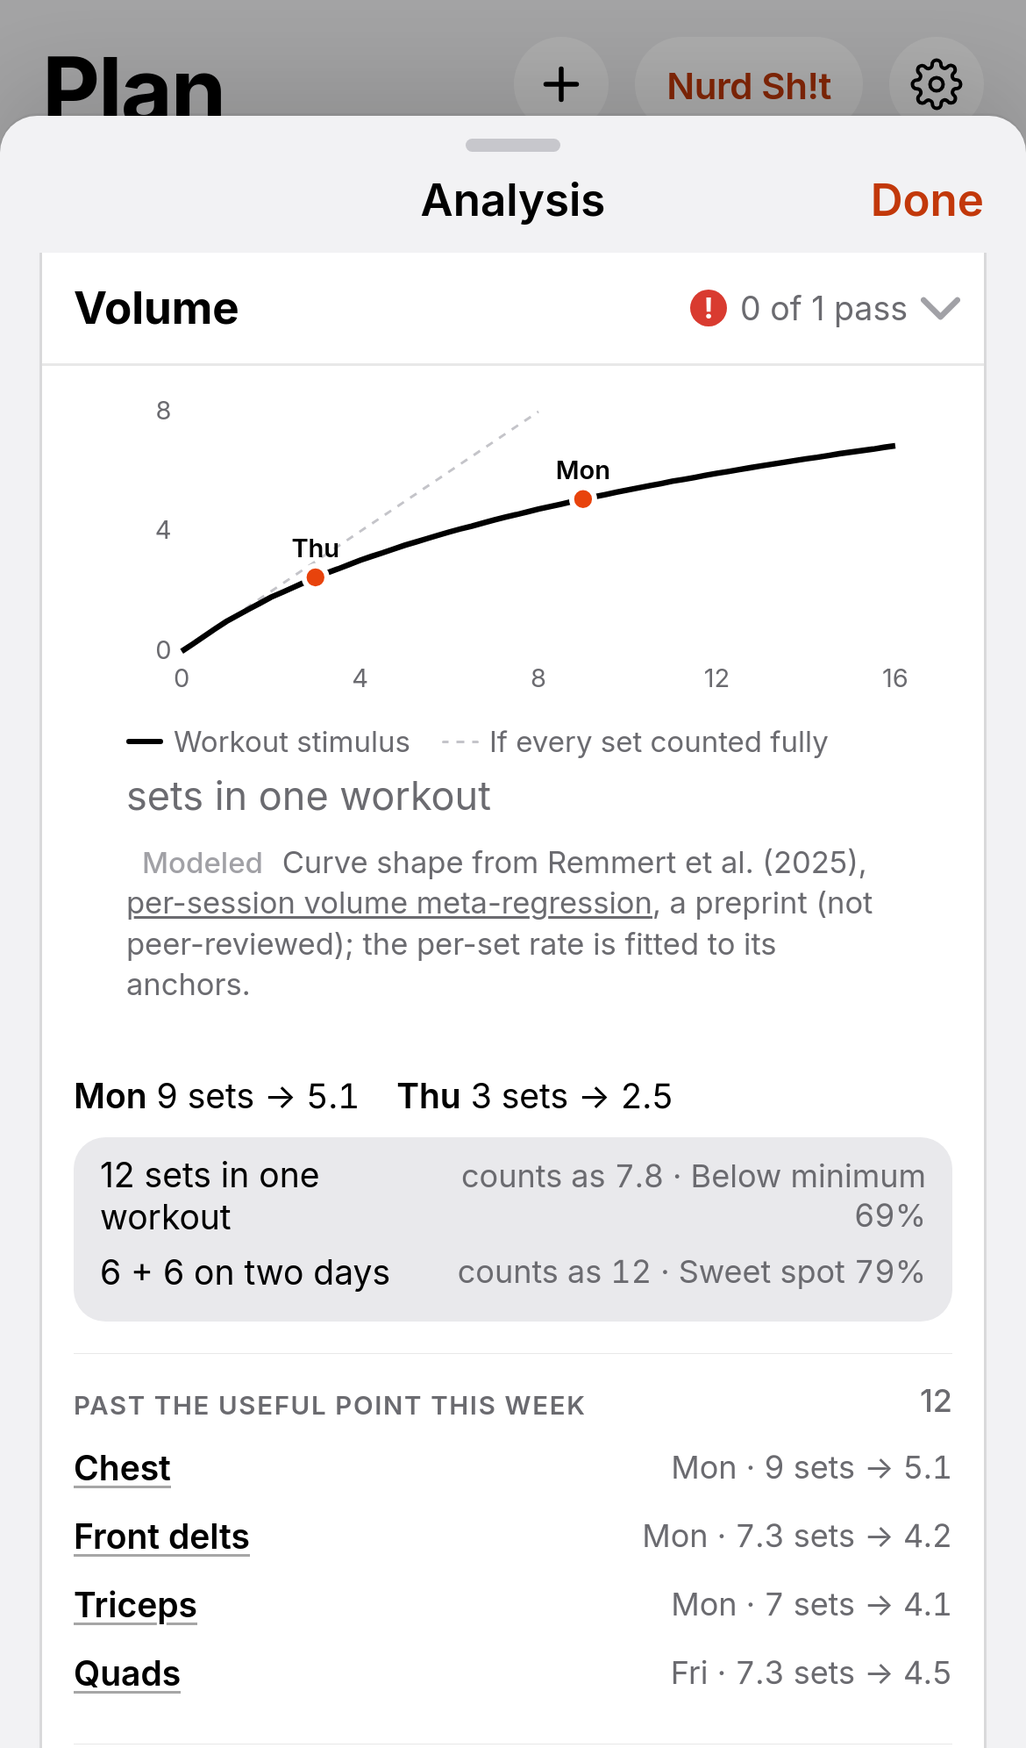
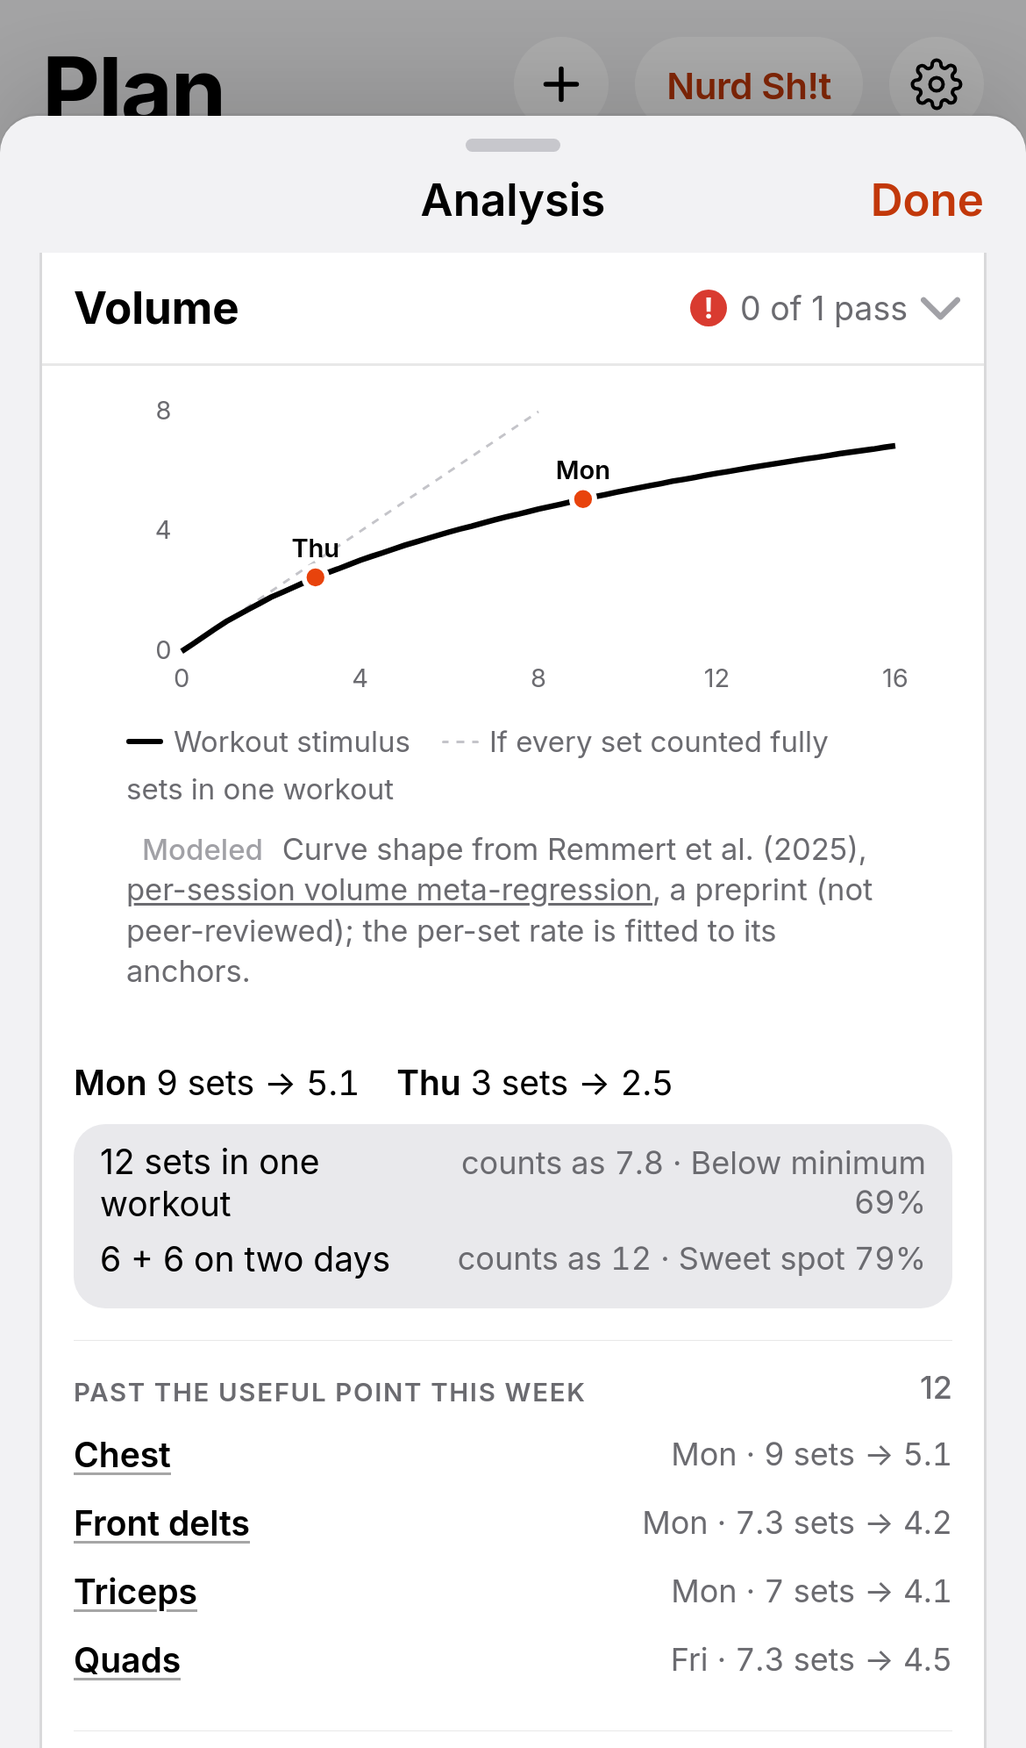
Storyboard vol8c: capped weekly value (min of x_equiv and raw) for %, zones, colours, warnings and the shown number; My average on per-set fatigue; overlap early format; splits held

diff --git a/storyboard/logic/progcheck.js b/storyboard/logic/progcheck.js
@@ -39,6 +39,8 @@ const perSet=dt=>!!(dt.VM&&dt.VM.curve.session_discount&&dt.VM.curve.session_dis
 const psC=(dt,m)=>(((dt.VM.session||{}).per_muscle||{})[m]||{}).c;
 function gPS(c,s){if(!(s>0))return 0;const n=Math.floor(s+1e-12);let t=0;for(let i=1;i<=n;i++)t+=1/(1+(i-1)/c);return t+Math.max(0,s-n)/(1+n/c)}
 function xEquiv(dt,m,xd){const c=psC(dt,m);if(!c)return xd;if(!(xd>0))return 0;let lo=0,hi=400;for(let k=0;k<90;k++){const md=(lo+hi)/2;if(2*gPS(c,md/2)<xd)lo=md;else hi=md}return (lo+hi)/2}
+// vol8c: weekly value = min(x_equiv, raw weekly effective sets), rounded to 0.01 before any zone/colour/warning comparison (check_program.py capped_week)
+const capW=(dt,m,xd,raw)=>Math.min(xEquiv(dt,m,xd),raw);   // % uses this exact value; zones/colours/warnings compare it rounded to 0.01
 function sessZone8(dt,m,s){const Z=((dt.VM.workout||{}).stimulus||{}).per_muscle_zones||{},z=Z[m];if(!z)return null;return s<z.dose_floor?'below_dose':s<=z.useful_to+1e-9?'useful':s<=z.low_return_from+1e-9?'diminishing':'low_return'}
 // per-set fatigue (load points) and vol8 recovery hours (recovery.params type_base / axial_by_exercise / effort; hours_formula)
 const effortOf=(dt,rir)=>{const E=dt.VM.recovery.params.effort;return E[String(Math.max(0,Math.min(4,Math.round(rir))))]};
@@ -60,7 +62,7 @@ function flags8(dt,days,level){const RU={};dt.rules.rules.forEach(r=>RU[r.id]=r)
     if(RU.recovery_gap_long&&dt.rules.frequency_muscles.includes(m)){let best=null;for(let k=0;k<M.length;k++){const a=M[k],b=M[(k+1)%M.length],g=((b.i-a.i+7)%7||7)*24;if(!best||g>best[2])best=[a.d.day,b.d.day,g]}
       if(best[2]>RU.recovery_gap_long.max_gap_h)out.push(['info','recovery_gap_long',m,best[0],best[1],best[2],best[2]-RU.recovery_gap_long.max_gap_h])}
     if(RU.recovery_overlap){const R=RU.recovery_overlap;let k=0;const streaks=new Set();while(k<M.length){let j=k;while(j+1<M.length&&M[j+1].i===M[j].i+1)j++;if(j-k+1>=R.streak_days){out.push(['info','recovery_overlap',m,'streak',M[k].d.day,M[j].d.day,j-k+1]);for(let q=k;q<=j;q++)streaks.add(q)}k=j+1}
-      for(let q=0;q+1<M.length;q++){if(streaks.has(q)&&streaks.has(q+1))continue;const g=(M[q+1].i-M[q].i)*24,h=recHours(dt,M[q].d.tiles,level)[m]||0;if(g<R.min_gap_h||g<R.early_frac_of_lower*0.8*h)out.push(['info','recovery_overlap',m,'early',M[q].d.day,M[q+1].d.day,g,h])}}}
+      for(let q=0;q+1<M.length;q++){if(streaks.has(q)&&streaks.has(q+1))continue;const g=(M[q+1].i-M[q].i)*24,h=recHours(dt,M[q].d.tiles,level)[m]||0;const thr=R.early_frac_of_lower*0.8*h;if(g<R.min_gap_h||g<thr-1e-9)out.push(['info','recovery_overlap',m,'early',M[q].d.day,M[q+1].d.day,g,pyR(thr,1),pyR(thr-g,1)]) /* vol8c: [gap h, early threshold h, short by h] */}}}
   return out}
 function sessCredit(dt,m,s){if(perSet(dt)){const c=psC(dt,m);if(c)return gPS(c,s)}const SD=(dt.VM&&dt.VM.curve.session_discount)||dt.targets.curve.session_discount;
   if(SD.active==='smooth'&&SD.smooth){const H=((dt.targets.session||{}).muscles||{})[m];if(H&&H.heavy){const a=SD.smooth.a_frac_of_heavy*H.heavy,b=SD.smooth.b_frac_of_heavy*H.heavy;return s<=a?s:a+b*Math.log(1+(s-a)/b)}}
@@ -81,7 +83,7 @@ function patternFlags(dt,days,level){const {PJ}=ctx(dt);if(!days.some(d=>d.tiles
   for(const [s,mn] of Object.entries(PJ.weekly_min_by_level[level])){if(mn<=0||c[s]>=mn)continue;out.push([c[s]===0&&PJ.required.includes(s)?'warn':'info','pattern_gap',s,c[s],mn])}return out}
 function col(dt,m,x,level){const {T,LF}=ctx(dt),a=pyR(T[m].min*LF[level]*2)/2,b=T[m].max;if(dt.VM&&!exactWarn(dt))x=r1(x);if(a<=x&&x<=b)return 'G';if((a-2<=x&&x<a)||(b<x&&x<=b*1.25))return 'A';return 'R'}
 // days: [{day:'mon', tiles:[{id,sets}]}] (training days only, any order). Returns [flags, week]
-function check(dt,days,level){const {R,RU,T,S,HEAVY}=ctx(dt),PAT=dt.PAT,f=[],week={},freq={};for(const m in T){week[m]=0;freq[m]=0}
+function check(dt,days,level){const {R,RU,T,S,HEAVY}=ctx(dt),PAT=dt.PAT,f=[],week={},freq={},rawW={};for(const m in T){week[m]=0;freq[m]=0}
   let push=0,pull=0,spw=0;const byday={};days.forEach(d=>byday[d.day]=d);const HS=new Set(R.heavy_squats),HH=new Set(R.heavy_hinges);
   for(const d of days){const n=d.tiles.length,tot=total(d);
     if(n>RU.many_small_entries.min_tiles&&tot/n<RU.many_small_entries.max_avg_sets)f.push(['info','many_small_entries',d.day,n,pyR(tot/n,2)]);
@@ -92,7 +94,7 @@ function check(dt,days,level){const {R,RU,T,S,HEAVY}=ctx(dt),PAT=dt.PAT,f=[],wee
       if(R.push_patterns.includes(p))push+=t.sets;if(R.pull_patterns.includes(p))pull+=t.sets}
     for(const [p,c] of pc){if(c<2)continue;const pv=eff(dt,d.tiles.filter(t=>(PAT[t.id]??null)===p));const over=Object.keys(pv).filter(m=>pv[m]>RU.redundant_pattern.threshold);
       if(over.length)f.push(['warn','redundant_pattern',d.day,p,c,over[0],pyR(pv[over[0]],1)])}
-    const v=eff(dt,d.tiles);for(const m in v){const x=v[m];week[m]+=dt.VM?sessCredit(dt,m,x):x;   // qc3009: weekly totals use the per-session credit (JS diverges from Coach's Python here, accepted)
+    const v=eff(dt,d.tiles);for(const m in v){const x=v[m];week[m]+=dt.VM?sessCredit(dt,m,x):x;rawW[m]=(rawW[m]||0)+x;   // qc3009: weekly totals use the per-session credit (JS diverges from Coach's Python here, accepted)
       if(x>=2)freq[m]+=1;if(x>10)f.push(['warn','junk_volume_session',d.day,m,pyR(x,1)])}
     const ids=new Set(d.tiles.map(t=>t.id));if(level==='beginner'&&[...ids].some(i=>HS.has(i))&&[...ids].some(i=>HH.has(i)))f.push([RU.beginner_squat_and_deadlift.severity||'warn','beginner_squat_and_deadlift',d.day])} // r2fix: severity from rules[]
   for(let i=0;i<6;i++){const dd=ORDER[i],a=byday[dd],b=byday[ORDER[i+1]];if(!(a&&b))continue;
@@ -104,7 +106,7 @@ function check(dt,days,level){const {R,RU,T,S,HEAVY}=ctx(dt),PAT=dt.PAT,f=[],wee
   const all=new Set(days.flatMap(d=>d.tiles.map(t=>t.id)));
   for(const [m,ids] of Object.entries(R.stretch_biased))if(!ids.some(i=>all.has(i)))f.push([(RU.missing_stretch.check_muscles||[]).includes(m)?'warn':'info','missing_stretch',m]); // r2fix: stretch_check muscles warn
   for(const m of R.frequency_muscles)if(freq[m]<2&&days.length>=2)f.push(['info','low_frequency',m,freq[m]]);
-  if(perSet(dt)){for(const m in week)week[m]=xEquiv(dt,m,week[m]);f.push(...flags8(dt,days,level))}   // vol8b: weekly totals = x_equiv; CoS: zones/colours/warnings on this shown value
+  if(perSet(dt)){for(const m in week)week[m]=Math.round(capW(dt,m,week[m],rawW[m]||0)*100)/100;f.push(...flags8(dt,days,level))}   // vol8b: weekly totals = x_equiv; CoS: zones/colours/warnings on this shown value
   for(const m in week)if(col(dt,m,week[m],level)==='R')f.push(['warn','weekly_volume',m,pyR(week[m],1)]);
   f.push(...patternFlags(dt,days,level));return [f,week]}
 // ---------------- fixes (check_program.py v18) ----------------
@@ -240,7 +242,7 @@ function message(dt,f,days,level){const {R,RU,PJ}=ctx(dt),DN=R.day_names,id=f[1]
   const dys=h=>{const v=h/24;return `${+v.toFixed(1)} day${v===1?'':'s'}`};
   if(id==='session_dose'){P.limit=+(((dt.VM.session||{}).per_muscle||{})[f[3]]||{}).low_return_from.toFixed(1);P.sets=+(+P.sets).toFixed(1);return fmtPy(f[4]==='heavy'?r.message_heavy:r.message_light,P)}
   if(id==='recovery_gap_long'){P.gap=dys(f[5]);return fmtPy(f[3]===f[4]&&r.message_once?r.message_once:r.message,P)}
-  if(id==='recovery_overlap'){if(f[3]==='streak'){P.n=f[6];return fmtPy(r.message_streak,P)}P.gap=dys(f[6]);P.ready=f[7]?(h=>{if(h<20)return 'about a day';const lo=Math.floor(h*0.8/12)/2,hi=Math.ceil(h*1.2/12)/2;return (dt.VM.recovery.display.format||'about {lo}–{hi} days').replace('{lo}',String(lo)).replace('{hi}',String(hi))})(f[7]):'';return fmtPy(r.message_early,P)}
+  if(id==='recovery_overlap'){const R8=r;if(f[3]==='streak'){P.n=f[6];return fmtPy(r.message_streak,P)}P.gap=dys(f[6]);P.ready=f[7]?(h=>{h=h/(R8.early_frac_of_lower*0.8);if(h<20)return 'about a day';const lo=Math.floor(h*0.8/12)/2,hi=Math.ceil(h*1.2/12)/2;return (dt.VM.recovery.display.format||'about {lo}–{hi} days').replace('{lo}',String(lo)).replace('{hi}',String(hi))})(f[7]):'';return fmtPy(r.message_early,P)}
   let msg=r.message;if(id==='low_frequency'&&f[3]===0&&r.message_indirect_only)msg=r.message_indirect_only;else if(id==='spinal_load_week')msg=r.message_week||msg;else if(f[0]==='info'&&r.message_info)msg=r.message_info;
   return fmtPy(msg,P)}
 const RULE_OF=id=>id.startsWith('spinal_load')?'spinal_load':id;
@@ -262,15 +264,15 @@ function checks(dt,days,level){const [fl,week]=check(dt,days,level),rules=dt.rul
 function analytics(dt,days,level){const TT=dt.targets,C=TT.curve,A=TT.analytics,{T,LF,RU,HEAVY}=ctx(dt),MUS=Object.keys(T),VM=!!dt.VM;
   const kOf=m=>(C.k_by_muscle&&C.k_by_muscle[m]&&C.k_by_muscle[m][level])||C.k[level],Sx=(x,k)=>1-Math.exp(-x/k),SD=C.session_discount,disc=(v,m)=>VM?sessCredit(dt,m,v):Math.min(v,SD.cap)+Math.max(0,v-SD.cap)*SD.factor;
   const perDay=days.map(d=>eff(dt,d.tiles)),muscles={};
-  for(const m of MUS){const rawx=perDay.reduce((a,v)=>a+v[m],0),xd=perDay.reduce((a,v)=>a+disc(v[m],m),0),x=VM&&perSet(dt)?xEquiv(dt,m,xd):xd,freq=perDay.filter(v=>v[m]>=A.frequency_min_effective).length;
-    if(VM){const z=zones(dt,m,level);muscles[m]={raw:shown(dt,m,level,z,x),raw_exact:x,raw_sets:rawx,x_dec:xd,x,zones:z,zone:zoneOf(z,x),stim:stim(dt,m,level,x),next:stim(dt,m,level,x+1)-stim(dt,m,level,x),min:z.min,max:z.diminishing,freq};continue}
+  for(const m of MUS){const rawx=perDay.reduce((a,v)=>a+v[m],0),xd=perDay.reduce((a,v)=>a+disc(v[m],m),0),x=VM&&perSet(dt)?capW(dt,m,xd,rawx):xd,freq=perDay.filter(v=>v[m]>=A.frequency_min_effective).length;
+    if(VM){const z=zones(dt,m,level);const xz=VM&&perSet(dt)?Math.round(x*100)/100:x;muscles[m]={raw:shown(dt,m,level,z,xz),raw_exact:x,raw_sets:rawx,x_dec:xd,x,zones:z,zone:zoneOf(z,xz),stim:stim(dt,m,level,x),next:stim(dt,m,level,x+1)-stim(dt,m,level,x),min:z.min,max:z.diminishing,freq};continue}
     const k=kOf(m),min=pyR(T[m].min*LF[level]*2)/2;
     muscles[m]={raw:rawx,x,k,stim:Sx(x,k),next:Sx(x+1,k)-Sx(x,k),min,max:T[m].max,freq}}
   const fat=e=>e.fatigue!=null?e.fatigue:(e.type==='isolation'?.8:1.2);
   const day=days.map(d=>({day:d.day,minutes:sessionMinutes(dt,d.tiles,level),sets:total(d),cost:d.tiles.reduce((a,t)=>a+t.sets*fat(dt.EX[t.id]),0),spinal:d.tiles.reduce((a,t)=>a+(HEAVY.has(t.id)?t.sets:0),0)}));
   return {muscles,day,weekSets:days.reduce((a,d)=>a+total(d),0),weekMinutes:day.reduce((a,d)=>a+d.minutes,0),weekCost:day.reduce((a,d)=>a+d.cost,0),
     spinal:{week:day.reduce((a,d)=>a+d.spinal,0),week_max:RU.spinal_load.week_warn_above[level],session_max:RU.spinal_load.session_warn_above[level]},disclaimer:VM?dt.VM.disclaimer:A.disclaimer,curveModel:VM?dt.VM.curve.reads_as:C.model}}
-const API={check,fixes,evaluate,message,checks,analytics,sessionMinutes,eff,credit,sessCredit,sessZones,perSet,gPS,xEquiv,sessZone8,loadPoints,recHours,flags8,effortOf,axialOf,zones,stim,zoneOf,sessP,r05,r1,dRound,shown,flagKey,ORDER,shortLabel,ruleLabel,
+const API={check,fixes,evaluate,message,checks,analytics,sessionMinutes,eff,credit,sessCredit,sessZones,perSet,gPS,xEquiv,sessZone8,capW,loadPoints,recHours,flags8,effortOf,axialOf,zones,stim,zoneOf,sessP,r05,r1,dRound,shown,flagKey,ORDER,shortLabel,ruleLabel,
   // internals reused by logic/analysis.js and logic/progress.js (same functions, so the ports cannot drift)
   _x:{gAddSets,gAddExercise,gReduceSets,prev,nonin,_day,load,col,RULE_OF,total,ctx,clone,cmpT,sortBy,fmtPy}};
 if(typeof module!=='undefined'&&module.exports)module.exports=API;else root.PCHECK=API;

diff --git a/storyboard/logic/analysis.js b/storyboard/logic/analysis.js
@@ -267,7 +267,7 @@ function myAverage(dt,hist){const R=((dt.targets||{}).recovery||{}).reference||{
   const ent={};(hist.entries||[]).forEach(e=>ent[e.id]=e);const wk=iso=>{const d=new Date(iso.slice(0,10)+'T12:00:00Z'),k=(d.getUTCDay()+6)%7;d.setUTCDate(d.getUTCDate()-k);return d.toISOString().slice(0,10)};
   const W={};for(const s of hist.sessions){if(s.status&&s.status!=='completed')continue;const w=wk(s.date),o=W[w]||(W[w]={cost:0,done:0,planned:0,ids:new Set()});o.ids.add(s.id);o.planned+=((s.snapshot||{}).exercises||[]).reduce((a,x)=>a+(x.sets||0),0)}
   const sid={};Object.entries(W).forEach(([w,o])=>o.ids.forEach(i=>sid[i]=w));
-  for(const t of hist.sets||[]){if(!t.done||t.kind==='warmup')continue;const e=ent[t.entryId];if(!e)continue;const w=sid[e.sessionId];if(!w)continue;const ex=dt.EX[e.exerciseId];W[w].done+=1;if(ex)W[w].cost+=ex.fatigue}
+  for(const t of hist.sets||[]){if(!t.done||t.kind==='warmup')continue;const e=ent[t.entryId];if(!e)continue;const w=sid[e.sessionId];if(!w)continue;const ex=dt.EX[e.exerciseId];W[w].done+=1;if(ex)W[w].cost+=PC.perSet(dt)?PC.loadPoints(dt,[{id:e.exerciseId,sets:1,rir:t.rir}]):ex.fatigue}   // vol8c: per-set fatigue (type_base x axial x effort at the logged RIR)
   const DL=(hist.deloads||[]).map(x=>[x.start,x.end]),inDL=w=>{const e=new Date(w+'T12:00:00Z');e.setUTCDate(e.getUTCDate()+6);const we=e.toISOString().slice(0,10);return DL.some(([a,b])=>a<=we&&b>=w)};
   const ok=Object.keys(W).sort().filter(w=>!inDL(w)&&W[w].planned>0&&W[w].done/W[w].planned>=0.5),use=ok.slice(-win);
   return {available:ok.length>=need,weeks:ok.length,need,window:use,avg:use.length?r4(pySum(use.map(w=>W[w].cost))/use.length,1):null}}
@@ -278,8 +278,8 @@ function benchVs(dt,wc){const L=((((dt.targets||{}).recovery||{}).reference||{})
 // swap tradeoff record (volume-model.json swaps.schema), computed with the new counting
 function swapRecord(dt,before,after,level,from_id,to_id){const A0=PC.analytics(dt,before,level).muscles,A1=PC.analytics(dt,after,level).muscles,mus={},drops=[];
   const ch=new Set();after.forEach((d,i)=>{const b=before.find(x=>x.day===d.day);if(JSON.stringify(b&&b.tiles)!==JSON.stringify(d.tiles))ch.add(d.day)});
-  for(const m of Object.keys(A0)){const a=A0[m],b=A1[m],ra=PC.perSet(dt)?a.raw_sets:a.raw_exact,rb=PC.perSet(dt)?b.raw_sets:b.raw_exact,dl=rb-ra,a5=PC.dRound(dt,ra),b5=PC.dRound(dt,rb);if(Math.abs(dl)<1e-9)continue;const cr=ra>=a.min&&rb<a.min;   /* vol8b: Coach's swap record stays on raw weekly sets; the app card uses *_shown (the credited value) */   /* vol6 warnings_rounding none: judged on exact credit */if(cr)drops.push(m);
-    mus[m]={before:a5,after:b5,before_shown:a.raw,after_shown:b.raw,delta:r4(dl,2),zone_before:PC.perSet(dt)?PC.zoneOf(a.zones,ra):a.zone,zone_after:PC.perSet(dt)?PC.zoneOf(b.zones,rb):b.zone,zone_after_shown:b.zone,min:a.min,crosses_below_min:cr,stimulus_before:r4(a.stim,3),stimulus_after:r4(b.stim,3)}}
+  for(const m of Object.keys(A0)){const a=A0[m],b=A1[m],ra=PC.perSet(dt)?a.raw_sets:a.raw_exact,rb=PC.perSet(dt)?b.raw_sets:b.raw_exact,dl=rb-ra,a5=PC.dRound(dt,ra),b5=PC.dRound(dt,rb);if(Math.abs(dl)<1e-9)continue;const ca=PC.perSet(dt)?Math.round(a.x*100)/100:ra,cb=PC.perSet(dt)?Math.round(b.x*100)/100:rb,cr=ca>=a.min&&cb<a.min;   /* vol8c: crossing judged on the capped weekly value */   /* vol8b: Coach's swap record stays on raw weekly sets; the app card uses *_shown (the credited value) */   /* vol6 warnings_rounding none: judged on exact credit */if(cr)drops.push(m);
+    mus[m]={before:a5,after:b5,before_shown:a.raw,after_shown:b.raw,delta:r4(dl,2),zone_before:a.zone,zone_after:b.zone,weekly_value_before:r4(a.x,3),weekly_value_after:r4(b.x,3),min:a.min,crosses_below_min:cr,stimulus_before:r4(a.stim,3),stimulus_after:r4(b.stim,3)}}
   const fb=weekCost(dt,before),fa=weekCost(dt,after);
   return {from_id,to_id,days:[...ch],fatigue_cost:{before:r4(fb,1),after:r4(fa,1),delta:r4(fa-fb,1)},muscles:mus,drops_below_min:drops,verdict:drops.length?'tradeoff':'clean'}}
 const API={hoursRange,myAverage,sessionHours,weekHours,benchVs,swapRecord,applyOps,invertOps,diff,suggest,sheet,metrics,checksPass,applicable,itemOf,flagDetails,breakdowns,fatigueRating,items,stretchFocused,tierOf,pushPull,ruleApplies,catalogue,typeOf,weekCost,stretchShare,lowerFatigueCandidates,pyDumps};

diff --git a/storyboard/board.js b/storyboard/board.js
@@ -436,7 +436,7 @@ function renderAnalysis(){if(!AN)return;const dt=RD(),{A,C,d}=stats(),R=dt.rules
     const svg=`<svg class="ancurve pwc" viewBox="0 0 ${W} ${H}" data-m="${cm}"><line x1="${px(0)}" y1="${py(0)}" x2="${px(Math.min(N,YM))}" y2="${py(Math.min(N,YM))}" class="pwid"/>${[0,4,8,12,16].map(q=>`<text x="${px(q)}" y="${H-10}" text-anchor="middle">${q}</text>`).join('')}${yt.map(q=>`<text x="26" y="${py(q)+3}" text-anchor="end">${q}</text>`).join('')}
       <path d="${pth}" class="cv"/>${dd.map(o=>{const q=Math.min(N,o.s);return `<circle cx="${px(q)}" cy="${py(g(q))}" r="4.5" class="dot"/><text x="${px(q)}" y="${py(g(q))-8}" text-anchor="middle" class="bl">${WD[DAYS.indexOf(o.day)]}</text>`}).join('')}</svg>`;
     const over=[];d.forEach(D=>{const E=PC.eff(dt,D.tiles);for(const [m,v] of Object.entries(E)){const z=PC.sessZones(dt,m);if(z&&v>z.useful+0.05)over.push({m,day:D.day,v,c:PC.sessCredit(dt,m,v)})}});over.sort((a,b)=>(b.v-b.c)-(a.v-a.c));
-    const n=12,XE=x=>Z.perSet?PC.xEquiv(dt,cm,x):x,one=XE(g(n)),two=XE(2*g(n/2)),zz=PC.zones(dt,cm,lv),row=(lab,x)=>{const sh=PC.shown(dt,cm,lv,zz,x);return `<div class="pwr"><span>${lab}</span><span class="num">counts as ${nfmt(sh)} · ${ZL(PC.zoneOf(zz,x))} ${Math.round(PC.stim(dt,cm,lv,x)*100)}%</span></div>`};
+    const n=12,XE=(x,raw)=>Z.perSet?PC.capW(dt,cm,x,raw):x,one=XE(g(n),n),two=XE(2*g(n/2),n),zz=PC.zones(dt,cm,lv),row=(lab,x)=>{const sh=PC.shown(dt,cm,lv,zz,x);return `<div class="pwr"><span>${lab}</span><span class="num">counts as ${nfmt(sh)} · ${ZL(PC.zoneOf(zz,x))} ${Math.round(PC.stim(dt,cm,lv,x)*100)}%</span></div>`};
     const SRC=((dt.VM.sources||{}).remmert2025session)||null;
     return `<div class="agfx pwv" data-metric="per_workout"><div class="ash"><span>Per workout: ${MLB(cm)}</span><span class="evl" data-ev="modeled">Modeled</span><span class="ashv num">set ${nfmt(Z.useful)} ≈ half of set 1</span></div>
       <div class="curvec card curve">${svg}<div class="pwleg"><span><i class="pwk"></i>Workout stimulus</span><span><i class="pwk2"></i>If every set counted fully</span><span class="sub">sets in one workout</span></div>

diff --git a/storyboard/sb.css b/storyboard/sb.css
@@ -1610,3 +1610,4 @@ html[data-theme=dark] .pmom.gold .pm-txt .eyebrow{color:#FFD88F}
 .rtl8 .rtl{fill:#9ec9ea;opacity:.45}.rtl8 .rtd{fill:#6aaedf;opacity:.6}.rtl8 .rtdot{fill:#1f3550}.rtl8 .rtgap{stroke:#aaa;stroke-width:3}.rtl8 .rtov{stroke:#d4483b;stroke-width:3.5}
 .rtleg8{display:flex;flex-wrap:wrap;gap:4px 10px;font-size:11px;color:var(--text-2);margin:4px 0 8px}.rtleg8 .k{display:inline-block;width:12px;height:8px;margin-right:4px;vertical-align:0;border-radius:2px}
 .rtleg8 .dot{width:8px;height:8px;border-radius:50%;background:#1f3550}.rtleg8 .dk{background:#6aaedf}.rtleg8 .k.lt8{background:#9ec9ea;opacity:.6;width:12px;height:8px;padding:0}.rtleg8 .ov{background:#d4483b;height:3px}.rtleg8 .gp{background:#aaa;height:3px}
+.pwleg .sub{font-size:11px;color:var(--text-2);flex-basis:100%}

diff --git a/storyboard/ARCHITECTURE-web-storyboard.md b/storyboard/ARCHITECTURE-web-storyboard.md
@@ -531,3 +531,4 @@ The suite runs all three (`r3*` checks).
 - **QC on 3009dc7 (Oct 31, 2026, CoS):** `PC.check` weekly totals (and so the Plan board / Analysis weekly colours and weekly_volume flags) use the per-session credit `PC.sessCredit` — the JS program check now deliberately diverges from Coach's Python here. Every shown effective-set number is the credited value at one decimal (`PC.r1`), and zone and colour come from that same value (`col()` and `zoneOf` on r1), so number, zone and colour always agree; Coach's 0.5 rounding (`PC.r05`) is kept only inside `ANALYSIS.swapRecord`'s before/after fields for the reference file (the swap card uses `before_shown`/`after_shown`). Dropping r05 from colouring makes 2 of 46 presets warn (full-body advanced 2 triceps 5.9 of 8, upper-lower intermediate 2 side delts 4.3 of 6.5). Board numbers use `nfmt` at one decimal. The benchmark mode toggle is a filled ink pill for the selected mode with `aria-pressed`.
 - **Volume model vol6 (Oct 31, 2026, Coach):** `splits.json` / `targets.json` / `rules.json` / `volume-model.json` re-copied (FB adv 2 Mon overhead-cable-triceps-extension 2→5; UL int 2 Mon cable-lateral-raise 3→4, overhead-press 3→2). `volume-model.json` `credit.warnings_rounding: none` is honoured: `col()`, `zoneOf`, weekly_volume flags and swap `crosses_below_min` use the exact credited total. `targets.json` `counting.display_round_to` (was `round_to`) is read by `PC.dRound` and used only for the swap records' before/after display values. On screen, `PC.shown` gives one decimal, nudged to floor/ceil at 1 dp if plain rounding would cross a zone or colour boundary, so number, zone and colour agree. All 46 presets: 0 non-info weekly_volume warnings; UL int 2 side delts 4.9 of 6.5 is amber (close, under).
 - **Volume model vol8b ("vol7") per-set rebuild (Oct 31, 2026, Coach spec §10 / CoS):** rules/targets/volume-model re-copied. `PC.sessCredit` = per-set decay 1/(1+(n-1)/c) (`session.per_muscle[m].c`, fractional last set pro rata, reset per day); weekly input `PC.xEquiv` (2·g(x/2) = Σ workout stimulus, bisection) feeds the log curve. CoS override of §10.8: the shown weekly effective sets ARE x_equiv, and zones, colours, weekly_volume warnings and % all use it (board and Analysis), so 16 of 46 presets now warn; Coach's swap records stay on raw sets (`raw_sets`). `PC.loadPoints` (type_base × axial × effort) drives the workout load index (100 = 19.33 pts) and the weekly recovery cost (benchmarks 61.684/75.208/89.252/98.764); `PC.recHours` is the vol8 hours formula (F = Σ credit × effort × axial). `PC.flags8` adds session_dose, recovery_gap_long and recovery_overlap (streak/early), all info, with messages/short-label variants. UI: Per workout = one smooth curve (no bands) with a modeled source line from `volume-model.json sources.remmert2025session`, plus per-workout cards (fatigue bar, muscle bars by workout zone, +N%, ready-in range); Recovery gets the muscle recovery timeline (mockup layout). Smoke: workout-reference 232/232 incl. weekly-pct-vol8b; volume-model-reference board/curve/swap (27/27) match on Coach's raw basis; back-to-back never below one workout (19456-case grid, 0 violations).
+- **Volume model vol8c (Oct 31, 2026, Coach / CoS):** targets.json and volume-model.json re-copied; splits.json HELD at 204cdfbc (CoS: Coach's 12 preset rebalances not taken). Weekly value = `PC.capW` = min(x_equiv, raw weekly effective sets); the % uses it exactly, zones/colours/weekly_volume warnings compare it rounded to 0.01 (check_program.py capped_week), and the shown number (`PC.shown`, one decimal, boundary-nudged) is the same value everywhere. Swap records: before/after stay raw (0.5 display), zones, `weekly_value_*` and crosses_below_min use the capped value. recovery_overlap early = [gap h, threshold h, short by h]. My average = per-set fatigue sum (type_base × axial × effort at the logged RIR), same scale as the benchmarks. With the held splits, 12 of 46 presets give weekly_volume warnings.
